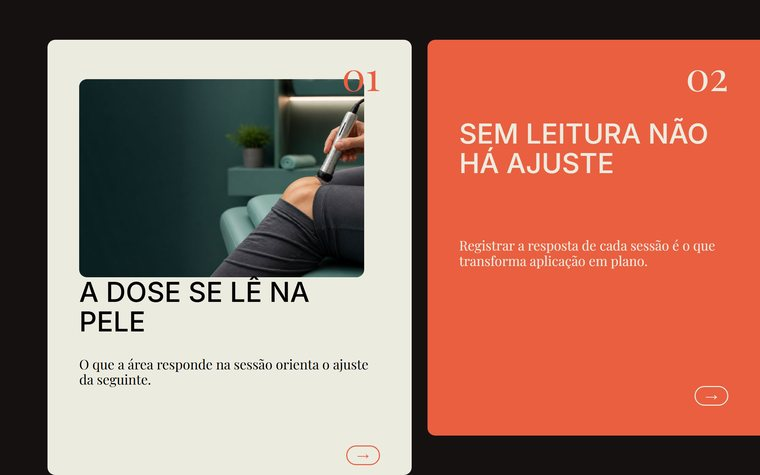
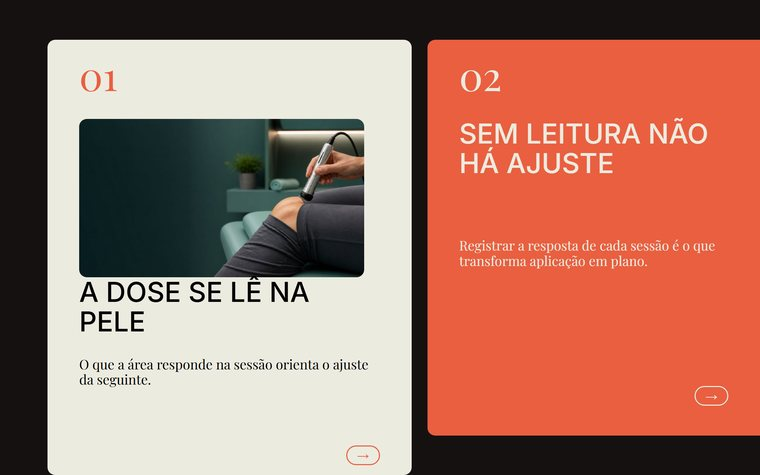
editorial-cards-continuos: numero a esquerda, remove foto de palco
Gustavo corrigiu o proprio pedido anterior: o numero fica no canto superior
ESQUERDO. A faixa propria permanece — foi ela que resolveu a colisao com a
headline; so o lado muda.

Foto de palco removida (exemplar, jpg e a imagem de exemplo). Vira lei no
pack: a foto vive DENTRO do cartao, nunca como fundo do slide. O palco escuro
chapado e a assinatura do estilo, e troca-lo por fotografia dissolve o
contraste que faz os cartoes existirem.

No cartao com foto o numero estava pousado sobre a imagem. Serifa fina sobre
foto some, e a imagem tem raio proprio, entao lia como erro de montagem. A
foto agora comeca na linha abaixo da faixa do numero.

Changed region(s): [[0.0908, 0.1474, 0.5145, 0.5895], [0.9079, 0.1474, 0.9684, 0.2063], [0.6053, 0.1474, 0.6658, 0.2063]]

diff --git a/packs/editorial-cards-continuos/exemplos/ref-estrutura-cartoes.html b/packs/editorial-cards-continuos/exemplos/ref-estrutura-cartoes.html
@@ -33,15 +33,15 @@
   <section class="slide" data-role="fechamento" data-dark></section>
 
   <div class="fita-layer" data-split-ok>
-    <!-- CARTÃO 01 · creme. Número no canto superior DIREITO (data-inset=top dá
-         o respiro do topo), headline à esquerda a partir da linha 3, seta no rodapé.
+    <!-- CARTÃO 01 · creme. Número no canto superior ESQUERDO (data-inset=top dá
+         o respiro do topo), em faixa própria; headline a partir da linha 4.
          Colunas 14→26: começa dentro do slide 2 e termina no 3 (a sangria). -->
     <div class="ds-card" data-el-id="k1" data-half-left data-layer style="grid-area: 2 / 15 / 12 / 26"></div>
     <span class="ds-number" data-el-id="k1n" data-half-left data-static data-layer data-face="serif"
-          data-size="lg" data-align="right" data-inset="top" style="grid-area: 2 / 20 / 4 / 24">01</span>
+          data-size="lg" data-inset="top" style="grid-area: 2 / 16 / 3 / 20">01</span>
     <h2 class="ds-headline" data-weight="medium" data-el-id="k1h" data-half-left data-layer data-template-element
         data-te-description="tese do cartão" data-te-min-chars="12" data-te-max-chars="34"
-        style="grid-area: 3 / 16 / 7 / 24">Constância vence intensidade</h2>
+        style="grid-area: 4 / 16 / 7 / 24">Constância vence intensidade</h2>
     <p class="ds-body" data-el-id="k1b" data-half-left data-layer data-face="serif"
        data-template-element data-te-description="apoio"
        data-te-min-chars="30" data-te-max-chars="120"
@@ -53,10 +53,10 @@
     <div class="ds-card" data-el-id="k2" data-half-left data-layer data-variable="primary"
          style="grid-area: 2 / 27 / 12 / 38"></div>
     <span class="ds-number" data-el-id="k2n" data-half-left data-static data-layer data-face="serif"
-          data-size="lg" data-tone="paper" data-align="right" data-inset="top" style="grid-area: 2 / 32 / 4 / 36">02</span>
+          data-size="lg" data-tone="paper" data-inset="top" style="grid-area: 2 / 28 / 3 / 32">02</span>
     <h2 class="ds-headline" data-weight="medium" data-el-id="k2h" data-half-left data-layer data-tone="paper" data-template-element
         data-te-description="tese do cartão" data-te-min-chars="12" data-te-max-chars="34"
-        style="grid-area: 3 / 28 / 7 / 36">Parâmetro não é receita</h2>
+        style="grid-area: 4 / 28 / 7 / 36">Parâmetro não é receita</h2>
     <p class="ds-body" data-el-id="k2b" data-half-left data-layer data-face="serif" data-tone="paper"
        data-template-element data-te-description="apoio"
        data-te-min-chars="30" data-te-max-chars="120"
@@ -67,10 +67,10 @@
     <!-- CARTÃO 03 · branco -->
     <div class="ds-card" data-el-id="k3" data-half-left data-layer style="grid-area: 2 / 39 / 12 / 50"></div>
     <span class="ds-number" data-el-id="k3n" data-half-left data-static data-layer data-face="serif"
-          data-size="lg" data-align="right" data-inset="top" style="grid-area: 2 / 44 / 4 / 48">03</span>
+          data-size="lg" data-inset="top" style="grid-area: 2 / 40 / 3 / 44">03</span>
     <h2 class="ds-headline" data-weight="medium" data-el-id="k3h" data-half-left data-layer data-template-element
         data-te-description="tese do cartão" data-te-min-chars="12" data-te-max-chars="34"
-        style="grid-area: 3 / 40 / 7 / 48">O plano conversa com você</h2>
+        style="grid-area: 4 / 40 / 7 / 48">O plano conversa com você</h2>
     <p class="ds-body" data-el-id="k3b" data-half-left data-layer data-face="serif"
        data-template-element data-te-description="apoio"
        data-te-min-chars="30" data-te-max-chars="120"

diff --git a/packs/editorial-cards-continuos/exemplos/ref-miolo-cartao-com-foto.html b/packs/editorial-cards-continuos/exemplos/ref-miolo-cartao-com-foto.html
@@ -18,13 +18,15 @@
   <section class="slide" data-role="item" data-dark></section>
 
   <div class="fita-layer" data-split-ok>
-    <!-- CARTÃO com foto no topo: imagem linhas 2-6, texto 7-10, seta 11. -->
+    <!-- CARTÃO com foto: número em faixa própria (linha 2), foto ABAIXO dele
+         (4-7), texto 8-11, seta 12. O número nunca pousa sobre a imagem —
+         serifa fina sobre foto some, e a foto tem raio próprio. -->
     <div class="ds-card" data-el-id="f1" data-half-left data-layer style="grid-area: 2 / 3 / 13 / 14"></div>
     <img class="ds-photo" data-el-id="f1p" data-half-left data-static data-layer data-round
-         data-image-type="generated" src="foto-detalhe.jpg" style="grid-area: 3 / 4 / 8 / 13">
+         data-image-type="generated" src="foto-detalhe.jpg" style="grid-area: 4 / 4 / 8 / 13">
     <span class="ds-number" data-el-id="f1n" data-half-left data-static data-layer data-face="serif"
-          data-size="lg" data-align="right" data-inset="top"
-          style="grid-area: 2 / 9 / 3 / 13">01</span>
+          data-size="lg" data-inset="top"
+          style="grid-area: 2 / 4 / 3 / 8">01</span>
     <h2 class="ds-headline" data-weight="medium" data-el-id="f1h" data-half-left data-layer data-template-element
         data-te-description="tese do cartão" data-te-min-chars="12" data-te-max-chars="30"
         style="grid-area: 8 / 4 / 10 / 13">A dose se lê na pele</h2>
@@ -39,8 +41,8 @@
     <div class="ds-card" data-el-id="f2" data-half-left data-layer data-variable="primary"
          style="grid-area: 2 / 15 / 12 / 26"></div>
     <span class="ds-number" data-el-id="f2n" data-half-left data-static data-layer data-face="serif"
-          data-size="lg" data-tone="paper" data-align="right" data-inset="top"
-          style="grid-area: 2 / 20 / 3 / 24">02</span>
+          data-size="lg" data-tone="paper" data-inset="top"
+          style="grid-area: 2 / 16 / 3 / 20">02</span>
     <h2 class="ds-headline" data-weight="medium" data-el-id="f2h" data-half-left data-layer data-tone="paper"
         data-template-element data-te-description="tese do cartão"
         data-te-min-chars="12" data-te-max-chars="34"

diff --git a/packs/editorial-cards-continuos/tecnicas.md b/packs/editorial-cards-continuos/tecnicas.md
@@ -10,12 +10,12 @@ curto é a assinatura, não limitação.
    slide e sangra uma faixa estreita para dentro do vizinho à esquerda; entre
    um e outro o fundo escuro aparece como uma barra. Quem passa o dedo vê o
    cartão anterior sair de cena enquanto o próximo já está entrando.
-2. **Número em serifa no canto superior DIREITO** do cartão, ancorando a
+2. **Número em serifa no canto superior ESQUERDO** do cartão, ancorando a
    sequência (01, 02, 03). **Discreto** — na referência ocupa 12% da largura;
-   número gigante descaracteriza o estilo. Leva `data-align="right"` e
-   `data-inset="top"` (o inset é o respiro do topo — sem ele o número gruda
-   na borda). **O número ocupa uma faixa só dele**: se a headline dividir a
-   linha com ele, as duas colidem — é o erro mais fácil de cometer aqui.
+   número gigante descaracteriza o estilo. Leva `data-inset="top"` (o respiro
+   do topo — sem ele o número gruda na borda). **O número ocupa uma faixa só
+   dele**: se a headline dividir a linha com ele, as duas colidem. E nunca
+   pousa sobre foto — serifa fina sobre imagem some.
 3. **Capa com marcação manuscrita**: foto full-bleed escura, serifa em itálico
    misturada a romana, e uma elipse de caneta (SVG) envolvendo a palavra-chave.
 
@@ -27,15 +27,18 @@ mesmo cartão N vezes é a falha mais comum:
 | Exemplar | Quando usar |
 |---|---|
 | `ref-estrutura-cartoes.html` | o padrão: cartão só texto. É a maioria da fita |
-| `ref-miolo-cartao-com-foto.html` | item que pede prova visual (o aparelho, o detalhe, o antes/depois). Foto no TOPO do cartão, com `data-round` para casar com o raio dele; o texto fica na metade de baixo |
-| `ref-miolo-foto-de-palco.html` | respiro no meio da fita: em vez do fundo escuro chapado, o slide é uma foto escura e o cartão pousa sobre ela. A cada 3–4 cartões, nunca dois seguidos |
+| `ref-miolo-cartao-com-foto.html` | item que pede prova visual (o aparelho, o detalhe, o antes/depois). Foto DENTRO do cartão, abaixo da faixa do número, com `data-round` para casar com o raio dele; o texto fica na metade de baixo |
 
-Nas duas variações com foto o cartão é **mais alto** (linhas 2–13 em vez de
-2–12) ou **mais curto** (3–11 sobre palco), mas a travessia e o gap não mudam:
-a largura em colunas e o `data-half-left` são os mesmos.
+Na variação com foto o cartão é **mais alto** (linhas 2–13 em vez de 2–12),
+mas a travessia e o gap não mudam: a largura em colunas e o `data-half-left`
+são os mesmos.
 
-**Foto de palco tem que ser escura e calma.** Ela é fundo; o cartão claro por
-cima é que carrega a leitura. Foto clara ali apaga o cartão.
+**A foto vive DENTRO do cartão, nunca como fundo do slide.** O palco escuro
+chapado é a assinatura do pack — trocá-lo por fotografia dissolve o contraste
+que faz os cartões existirem.
+
+**O número nunca sobre a foto.** Ele fica na faixa acima dela; a imagem começa
+na linha seguinte.
 
 ## Estrutura cartões (o exemplar de referência)
 
